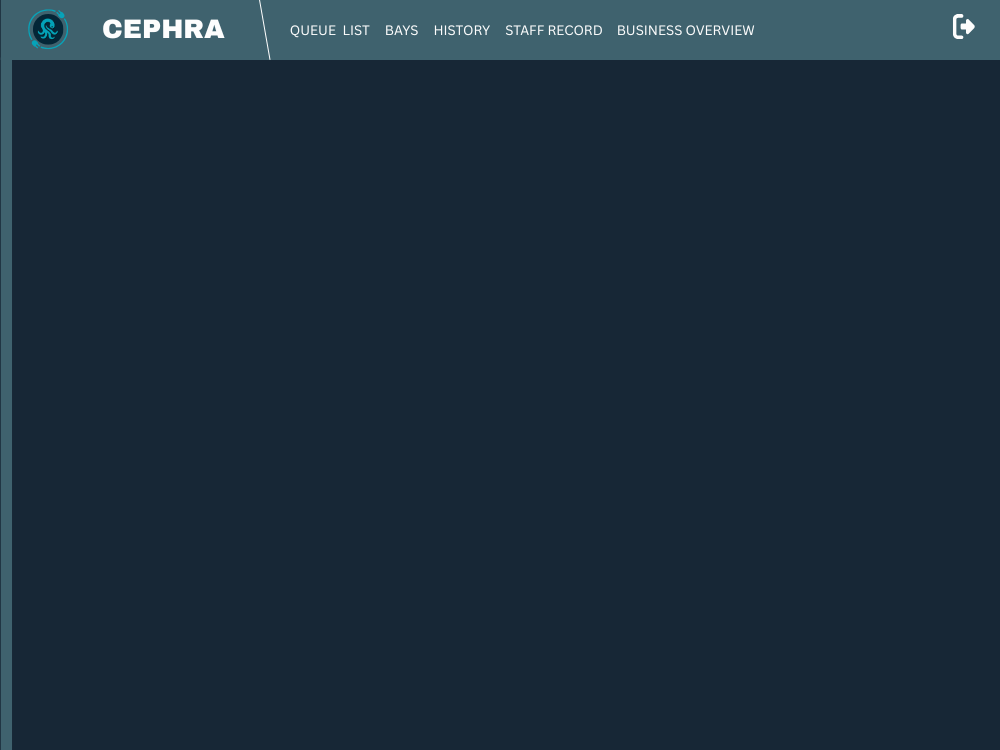
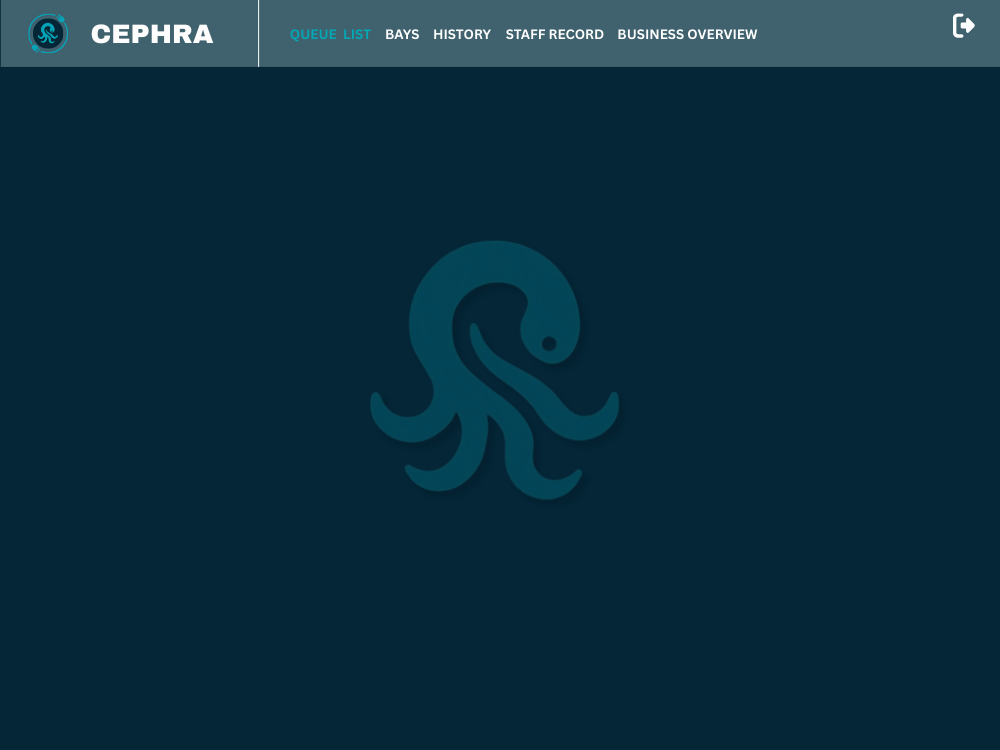
"Date time"

Changed region(s): [[0.0, 0.0, 1.0, 1.0], [0.372, 0.3067, 0.62, 0.6747]]

diff --git a/src/main/java/cephra/Admin/Dashboard.java b/src/main/java/cephra/Admin/Dashboard.java
@@ -67,11 +67,11 @@ public class Dashboard extends javax.swing.JPanel {
         Baybutton = new javax.swing.JButton();
         quebutton = new javax.swing.JButton();
         exitlogin = new javax.swing.JButton();
-        datetime = new javax.swing.JLabel();
-        MinfeeSpinner = new javax.swing.JSpinner();
-        RPHSpinner = new javax.swing.JSpinner();
+        datetimeStaff = new javax.swing.JLabel();
         Saveminfee = new javax.swing.JButton();
         Saverateperhour = new javax.swing.JButton();
+        jLabel3 = new javax.swing.JLabel();
+        labelStaff = new javax.swing.JLabel();
         jLabel1 = new javax.swing.JLabel();
 
         setMaximumSize(new java.awt.Dimension(1000, 750));
@@ -100,8 +100,6 @@ public class Dashboard extends javax.swing.JPanel {
         RPHSpinner.setValue(15);
         add(RPHSpinner);
         RPHSpinner.setBounds(600, 508, 300, 40);
-
-
 
         staffbutton.setBorder(null);
         staffbutton.setBorderPainted(false);
@@ -158,23 +156,11 @@ public class Dashboard extends javax.swing.JPanel {
         add(exitlogin);
         exitlogin.setBounds(930, 0, 70, 60);
 
-        datetime.setFont(new java.awt.Font("Segoe UI", 0, 11)); // NOI18N
-        datetime.setForeground(new java.awt.Color(255, 255, 255));
-        datetime.setText("10:44 AM 17 August, Sunday");
-        add(datetime);
-        datetime.setBounds(820, 40, 170, 20);
-
-        MinfeeSpinner.setFont(new java.awt.Font("Segoe UI", 0, 36)); // NOI18N
-        MinfeeSpinner.setBorder(new javax.swing.border.SoftBevelBorder(javax.swing.border.BevelBorder.LOWERED, java.awt.Color.lightGray, java.awt.Color.lightGray, java.awt.Color.lightGray, java.awt.Color.lightGray));
-        MinfeeSpinner.setValue(50);
-        add(MinfeeSpinner);
-        MinfeeSpinner.setBounds(120, 510, 300, 40);
-
-        RPHSpinner.setFont(new java.awt.Font("Segoe UI", 0, 36)); // NOI18N
-        RPHSpinner.setBorder(new javax.swing.border.SoftBevelBorder(javax.swing.border.BevelBorder.RAISED, java.awt.Color.lightGray, java.awt.Color.lightGray, java.awt.Color.lightGray, java.awt.Color.lightGray));
-        RPHSpinner.setValue(15);
-        add(RPHSpinner);
-        RPHSpinner.setBounds(600, 508, 300, 40);
+        datetimeStaff.setFont(new java.awt.Font("Segoe UI", 0, 11)); // NOI18N
+        datetimeStaff.setForeground(new java.awt.Color(255, 255, 255));
+        datetimeStaff.setText("10:44 AM 17 August, Sunday");
+        add(datetimeStaff);
+        datetimeStaff.setBounds(820, 40, 170, 20);
 
         Saveminfee.setBorderPainted(false);
         Saveminfee.setContentAreaFilled(false);
@@ -198,17 +184,17 @@ public class Dashboard extends javax.swing.JPanel {
         add(Saverateperhour);
         Saverateperhour.setBounds(610, 560, 290, 40);
 
-        SaveFastMultiplier = new javax.swing.JButton();
-        SaveFastMultiplier.setBorderPainted(false);
-        SaveFastMultiplier.setContentAreaFilled(false);
-        SaveFastMultiplier.setFocusPainted(false);
-        SaveFastMultiplier.addActionListener(new java.awt.event.ActionListener() {
-            public void actionPerformed(java.awt.event.ActionEvent evt) {
-                SaveFastMultiplierActionPerformed(evt);
-            }
-        });
-        add(SaveFastMultiplier);
-        SaveFastMultiplier.setBounds(120, 620, 290, 50);
+        jLabel3.setFont(new java.awt.Font("Segoe UI", 1, 16)); // NOI18N
+        jLabel3.setForeground(new java.awt.Color(255, 255, 255));
+        jLabel3.setText("Hello,");
+        add(jLabel3);
+        jLabel3.setBounds(820, 10, 50, 30);
+
+        labelStaff.setFont(new java.awt.Font("Segoe UI", 1, 16)); // NOI18N
+        labelStaff.setForeground(new java.awt.Color(255, 255, 255));
+        labelStaff.setText("Admin!");
+        add(labelStaff);
+        labelStaff.setBounds(870, 10, 70, 30);
 
         jLabel1.setIcon(new javax.swing.ImageIcon(getClass().getResource("/cephra/Photos/Business.png"))); // NOI18N
         add(jLabel1);
@@ -302,14 +288,14 @@ public class Dashboard extends javax.swing.JPanel {
     private javax.swing.JButton Baybutton;
     private javax.swing.JSpinner MinfeeSpinner;
     private javax.swing.JSpinner RPHSpinner;
-    private javax.swing.JSpinner FastMultiplierSpinner;
     private javax.swing.JButton Saveminfee;
     private javax.swing.JButton Saverateperhour;
-    private javax.swing.JButton SaveFastMultiplier;
-    private javax.swing.JLabel datetime;
+    private javax.swing.JLabel datetimeStaff;
     private javax.swing.JButton exitlogin;
     private javax.swing.JButton historybutton;
     private javax.swing.JLabel jLabel1;
+    private javax.swing.JLabel jLabel3;
+    private javax.swing.JLabel labelStaff;
     private javax.swing.JButton quebutton;
     private javax.swing.JButton staffbutton;
     private javax.swing.JLabel totalsessions;
@@ -362,7 +348,7 @@ public class Dashboard extends javax.swing.JPanel {
         String time = timeFormat.format(now);
         String date = dateFormat.format(now);
 
-        datetime.setText(time + " " + date);
+        datetimeStaff.setText(time + " " + date);
     }
     
     private void loadSettingsFromDatabase() {

diff --git a/src/main/java/cephra/Admin/Queue.java b/src/main/java/cephra/Admin/Queue.java
@@ -14,7 +14,8 @@ public class Queue extends javax.swing.JPanel {
         initComponents();
         setPreferredSize(new java.awt.Dimension(1000, 750));
         setSize(1000, 750);       
- 
+        setupDateTimeTimer();    
+        
         jtableDesign.apply(queTab);
         jtableDesign.makeScrollPaneTransparent(jScrollPane1);
  
@@ -842,6 +843,28 @@ private class CombinedProceedEditor extends AbstractCellEditor implements TableC
             updateStatusCounters();
         }
     }
+    
+     private void setupDateTimeTimer() {
+        updateDateTime();
+        javax.swing.Timer timer = new javax.swing.Timer(1000, new java.awt.event.ActionListener() {
+            @Override
+            public void actionPerformed(java.awt.event.ActionEvent e) {
+                updateDateTime();
+            }
+        });
+        timer.start();
+    }
+    
+    private void updateDateTime() {
+        java.text.SimpleDateFormat timeFormat = new java.text.SimpleDateFormat("hh:mm a");
+        java.text.SimpleDateFormat dateFormat = new java.text.SimpleDateFormat("dd MMMM, EEEE");
+        
+        java.util.Date now = new java.util.Date();
+        String time = timeFormat.format(now);
+        String date = dateFormat.format(now);
+        
+        datetimeStaff.setText(time + " " + date);
+    }
 
 
 
@@ -959,19 +982,19 @@ private class CombinedProceedEditor extends AbstractCellEditor implements TableC
         Paid.setHorizontalAlignment(javax.swing.SwingConstants.CENTER);
         Paid.setText("5");
         panelLists.add(Paid);
-        Paid.setBounds(50, 500, 120, 70);
+        Paid.setBounds(50, 530, 120, 70);
 
         Waitings.setFont(new java.awt.Font("Segoe UI", 1, 48)); // NOI18N
         Waitings.setHorizontalAlignment(javax.swing.SwingConstants.CENTER);
         Waitings.setText("4");
         panelLists.add(Waitings);
-        Waitings.setBounds(50, 170, 120, 70);
+        Waitings.setBounds(50, 165, 120, 70);
 
         Charging.setFont(new java.awt.Font("Segoe UI", 1, 48)); // NOI18N
         Charging.setHorizontalAlignment(javax.swing.SwingConstants.CENTER);
         Charging.setText("4");
         panelLists.add(Charging);
-        Charging.setBounds(50, 310, 120, 70);
+        Charging.setBounds(50, 350, 120, 70);
 
         queTab.setModel(new javax.swing.table.DefaultTableModel(
             new Object [][] {
@@ -990,11 +1013,11 @@ private class CombinedProceedEditor extends AbstractCellEditor implements TableC
         jScrollPane1.setViewportView(queTab);
 
         panelLists.add(jScrollPane1);
-        jScrollPane1.setBounds(210, 90, 750, 550);
+        jScrollPane1.setBounds(210, 90, 785, 580);
 
         jLabel2.setIcon(new javax.swing.ImageIcon(getClass().getResource("/cephra/Photos/QUEUEtable.png"))); // NOI18N
         panelLists.add(jLabel2);
-        jLabel2.setBounds(0, -80, 1010, 780);
+        jLabel2.setBounds(0, -90, 1010, 790);
 
         jTabbedPane1.addTab("Queue Lists", panelLists);
 
@@ -1231,7 +1254,7 @@ private class CombinedProceedEditor extends AbstractCellEditor implements TableC
         jTabbedPane1.addTab("Queue Control", ControlPanel);
 
         add(jTabbedPane1);
-        jTabbedPane1.setBounds(0, 40, 1020, 710);
+        jTabbedPane1.setBounds(0, 50, 1020, 700);
 
         datetimeStaff.setFont(new java.awt.Font("Segoe UI", 0, 11)); // NOI18N
         datetimeStaff.setForeground(new java.awt.Color(255, 255, 255));

diff --git a/src/main/java/cephra/Admin/Bay.java b/src/main/java/cephra/Admin/Bay.java
@@ -48,8 +48,10 @@ public class Bay extends javax.swing.JPanel {
         quebutton = new javax.swing.JButton();
         staffbutton = new javax.swing.JButton();
         businessbutton = new javax.swing.JButton();
-        exitlogin = new javax.swing.JButton();
         historybutton = new javax.swing.JButton();
+        exitlogin = new javax.swing.JButton();
+        labelStaff = new javax.swing.JLabel();
+        jLabel3 = new javax.swing.JLabel();
         jLabel1 = new javax.swing.JLabel();
 
         setLayout(null);
@@ -133,17 +135,6 @@ public class Bay extends javax.swing.JPanel {
         add(businessbutton);
         businessbutton.setBounds(610, 10, 140, 40);
 
-        exitlogin.setBorder(null);
-        exitlogin.setBorderPainted(false);
-        exitlogin.setContentAreaFilled(false);
-        exitlogin.addActionListener(new java.awt.event.ActionListener() {
-            public void actionPerformed(java.awt.event.ActionEvent evt) {
-                exitloginActionPerformed(evt);
-            }
-        });
-        add(exitlogin);
-        exitlogin.setBounds(930, 0, 70, 60);
-
         historybutton.setBorder(null);
         historybutton.setBorderPainted(false);
         historybutton.setContentAreaFilled(false);
@@ -155,13 +146,32 @@ public class Bay extends javax.swing.JPanel {
         add(historybutton);
         historybutton.setBounds(430, 10, 60, 40);
 
+        exitlogin.setBorder(null);
+        exitlogin.setBorderPainted(false);
+        exitlogin.setContentAreaFilled(false);
+        exitlogin.addActionListener(new java.awt.event.ActionListener() {
+            public void actionPerformed(java.awt.event.ActionEvent evt) {
+                exitloginActionPerformed(evt);
+            }
+        });
+        add(exitlogin);
+        exitlogin.setBounds(930, 0, 70, 60);
+
+        labelStaff.setFont(new java.awt.Font("Segoe UI", 1, 16)); // NOI18N
+        labelStaff.setForeground(new java.awt.Color(255, 255, 255));
+        labelStaff.setText("Admin!");
+        add(labelStaff);
+        labelStaff.setBounds(870, 10, 70, 30);
+
+        jLabel3.setFont(new java.awt.Font("Segoe UI", 1, 16)); // NOI18N
+        jLabel3.setForeground(new java.awt.Color(255, 255, 255));
+        jLabel3.setText("Hello,");
+        add(jLabel3);
+        jLabel3.setBounds(820, 10, 50, 30);
+
         jLabel1.setIcon(new javax.swing.ImageIcon(getClass().getResource("/cephra/Photos/Bay.png"))); // NOI18N
         add(jLabel1);
         jLabel1.setBounds(0, 0, 1000, 750);
-
-
-
-
     }// </editor-fold>//GEN-END:initComponents
 
     private void quebuttonActionPerformed(java.awt.event.ActionEvent evt) {//GEN-FIRST:event_quebuttonActionPerformed
@@ -237,6 +247,8 @@ public class Bay extends javax.swing.JPanel {
     private javax.swing.JButton exitlogin;
     private javax.swing.JButton historybutton;
     private javax.swing.JLabel jLabel1;
+    private javax.swing.JLabel jLabel3;
+    private javax.swing.JLabel labelStaff;
     private javax.swing.JButton quebutton;
     private javax.swing.JButton staffbutton;
     // End of variables declaration//GEN-END:variables

diff --git a/src/main/java/cephra/Admin/History.java b/src/main/java/cephra/Admin/History.java
@@ -14,6 +14,7 @@ public class History extends javax.swing.JPanel {
         initComponents();
         setPreferredSize(new java.awt.Dimension(1000, 750));
         setSize(1000, 750);
+        setupDateTimeTimer();
         // Register history table model so other modules can add rows
         jtableDesign.apply(jTable1);
         jtableDesign.makeScrollPaneTransparent(jScrollPane1);
@@ -197,6 +198,27 @@ public class History extends javax.swing.JPanel {
         }
     }//GEN-LAST:event_exitloginActionPerformed
 
+     private void setupDateTimeTimer() {
+        updateDateTime();
+        javax.swing.Timer timer = new javax.swing.Timer(1000, new java.awt.event.ActionListener() {
+            @Override
+            public void actionPerformed(java.awt.event.ActionEvent e) {
+                updateDateTime();
+            }
+        });
+        timer.start();
+    }
+    
+    private void updateDateTime() {
+        java.text.SimpleDateFormat timeFormat = new java.text.SimpleDateFormat("hh:mm a");
+        java.text.SimpleDateFormat dateFormat = new java.text.SimpleDateFormat("dd MMMM, EEEE");
+        
+        java.util.Date now = new java.util.Date();
+        String time = timeFormat.format(now);
+        String date = dateFormat.format(now);
+        
+        datetime.setText(time + " " + date);
+    }
 
     // Variables declaration - do not modify//GEN-BEGIN:variables
     private javax.swing.JButton Baybutton;
